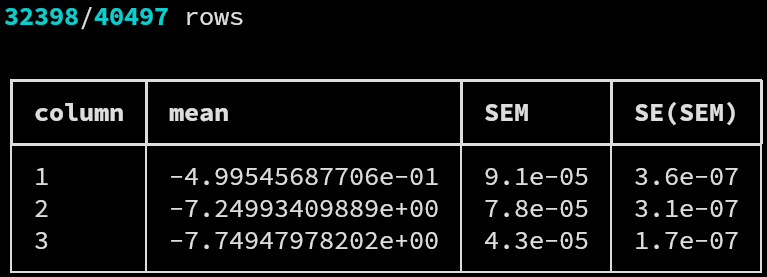
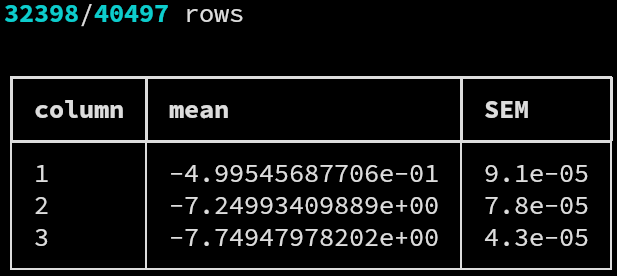
version 1.0.1 removed ds from avs printout added statistical introduction in doc

Changed region(s): [[0.0, 0.2609, 1.0, 0.9855], [0.0, 0.0, 0.4003, 0.1159]]

diff --git a/docs/javascripts/katex.js b/docs/javascripts/katex.js
@@ -1,0 +1,10 @@
+document$.subscribe(({ body }) => {
+  renderMathInElement(body, {
+    delimiters: [
+      { left: "$$",  right: "$$",  display: true },
+      { left: "$",   right: "$",   display: false },
+      { left: "\\(", right: "\\)", display: false },
+      { left: "\\[", right: "\\]", display: true }
+    ],
+  })
+})

diff --git a/modules/print.py b/modules/print.py
@@ -81,16 +81,12 @@ def print_avs(
         table.add_column("column")
         table.add_column("mean")
         table.add_column("SEM")
-        table.add_column("SE(SEM)")
 
-        for c, m, s, ds in zip(
-            cols, stats.m, stats.s, stats.ds
-        ):
+        for c, m, s in zip(cols, stats.m, stats.s):
             table.add_row(
                 f"{c}",
                 f"{m:.11e}",
                 f"{s:.1e}",
-                f"{ds:.1e}",
             )
 
         console.print(table)
@@ -99,10 +95,8 @@ def print_avs(
             print(report)
             print()
 
-        for c, m, s, ds in zip(
-            cols, stats.m, stats.s, stats.ds
-        ):
-            print(f"{c} {m:+.11e} {s:.1e} {ds:.1e}")
+        for c, m, s in zip(cols, stats.m, stats.s):
+            print(f"{c} {m:+.11e} {s:.1e}")
 
 
 def print_ave(

diff --git a/modules/main.py b/modules/main.py
@@ -38,7 +38,7 @@ from modules.print import print_ave
 
 VERSION_MAJOR = 1
 VERSION_MINOR = 0
-VERSION_REVISION = 0
+VERSION_REVISION = 1
 
 
 def main():

diff --git a/docs/drivers/avs.md b/docs/drivers/avs.md
@@ -51,9 +51,11 @@ resulting in the output
 
 ![fancy-output](avs-01.png)
 
-where the notation is the one introduced in the [statistical
-background](../statistics.md) and each row of the resulting
-table corresponds to one of the analyzed columns.
+where each row contains the statistical results for one of the
+columns of the data set, and the quantities are defined as
+discussed in the [uncorrelated
+data](../statistics.md#uncorrelated-data) section of the
+*statistical introduction*.
 
 Adding the `-b, --basic` option will result in the
 parser-friendly, unformatted output
@@ -62,7 +64,7 @@ parser-friendly, unformatted output
 $ ./das avs -b -s20 -v -f 1,2,3 tests/data/ave-01.dat.gz
 32398/40497 rows
 
-1 -4.99545687706e-01 9.1e-05 3.6e-07
-2 -7.24993409889e+00 7.8e-05 3.1e-07
-3 -7.74947978202e+00 4.3e-05 1.7e-07
+1 -4.99545687706e-01 9.1e-05
+2 -7.24993409889e+00 7.8e-05
+3 -7.74947978202e+00 4.3e-05
 ```

diff --git a/docs/statistics.md b/docs/statistics.md
@@ -1,1 +1,25 @@
-# Statistical background
+# Statistical introduction
+
+## Uncorrelated data
+
+For an uncorrelated data set $[x_1, \ldots, x_n]$, the
+arithmetic mean $m$ and the standard error of the mean
+(SEM)[^1] are computed as
+
+$$
+m = \frac{1}{n} \sum_{i = 1}^n x_i
+$$
+
+$$
+\operatorname{SEM} = \sqrt{\frac{1}{n(n - 1)} \sum_{i = 1}^n
+\left( x_i - m \right)^2}
+$$
+
+where the sample standard deviation is estimated with the
+Bessel correction[^2].
+
+
+
+
+[^1]: https://en.wikipedia.org/wiki/Standard_error
+[^2]: https://en.wikipedia.org/wiki/Standard_deviation
